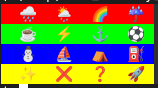
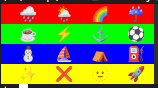
test(canary): mix a real Unicode-14 glyph into the vte_canary row grid (issue 57)
Per user request: instead of building a whole new real-app-in-tilix reel,
add 🫥 "dotted line face" (U+1FAE5) — the glyph identified from the user's
tilix screenshot as the likely culprit — directly into vte_canary's
existing sentinel-color row grid (row 4, alongside real color emoji),
reusing the already-proven -verify-rows machinery instead of inventing new
infra.

Result: both foot and tilix PASS -verify-rows with 🫥 in the mix — no
row-length defect reproduces in this headless capture. That's a real
negative result: the bug the user saw is not a universal raw-ANSI-sequence
width defect triggered by 🫥's bytes alone. Documented three untested
explanations (font/version-specific on the reporting machine, real-app
rendering context not exercised by the bare vte_canary tool, or a
misidentified glyph) and narrowed next steps accordingly. The canary
addition is kept as a permanent regression guard regardless.

Claude-Session: https://claude.ai/code/session_015EReJhvzEPtKL8oFMqRjmg

Changed region(s): [[0.5823, 0.75, 0.6835, 0.9318]]

diff --git a/scripts/vte_canary/main.go b/scripts/vte_canary/main.go
@@ -14,11 +14,18 @@ import (
 )
 
 // List of 4x4 test emojis containing standard emojis and BMP symbols.
+// Row 4 mixes color emoji with 🫥 "dotted line face" (U+1FAE5, Unicode 14.0,
+// 2021) — a real emoji-database entry (data/emoji.json) reported (issue 57,
+// 2026-08-09) to render pale/monochrome and mis-measure width in tilix,
+// producing a row shorter than the others. It's included directly in the
+// row-color sentinel grid (not the standalone synthetic set only) so
+// -verify-rows below can catch a real-glyph-triggered row-length mismatch,
+// not just the already-covered weather-symbol (U+1F324-1F329) class.
 var sampleEmojis = []string{
 	"🌧", "🌦", "🌈", "☔", // Row 1 (contains ☔ U+2614)
 	"☕", "⚡", "⚓", "⚽", // Row 2 (contains ☕ U+2615, ⚡ U+26A1, ⚓ U+2693, ⚽ U+26BD)
 	"⛄", "⛵", "⛺", "⛽", // Row 3 (contains ⛄ U+26C4, ⛵ U+26F5, ⛺ U+26FA, ⛽ U+26FD)
-	"✨", "❌", "❓", "🚀", // Row 4 (contains ✨ U+2728, ❌ U+274C, ❓ U+2753, 🚀 U+1F680)
+	"✨", "❌", "🫥", "🚀", // Row 4 (issue 57: 🫥 U+1FAE5 "dotted line face")
 }
 
 // canaryColors is the single source of truth for the row pattern colors:

diff --git a/issues/57-tilix-monochrome-mixed-row-length.md b/issues/57-tilix-monochrome-mixed-row-length.md
@@ -96,20 +96,87 @@ third:
      that's already proven correct.
    The second option is likely the pragmatic starting point.
 
+## Confirmed reproduction (2026-08-09)
+
+The default-view screenshot's grid ordering is influenced by MRU/recency and
+isn't a stable canary input on its own — but the glyph itself is:
+**🫥 "dotted line face" (U+1FAE5)**, `data/emoji.json` description "dotted
+line face" — a Unicode 14.0 (2021) emoji, one of the newest in the database,
+and *intentionally* rendered pale/faded by design (it's meant to look
+"invisible"), which is exactly why it stood out as "monochrome" in the
+screenshot. New-Unicode-version glyphs are a known gap for terminal width
+tables that haven't been updated (`docs/EmojiWidthResearch.md`'s
+correction-table findings) — consistent with this being a VTE/tilix
+per-codepoint width miscalculation rather than a rendering fluke.
+
+**Deterministic query**: typing `dotted` (confirmed via
+`go run ./scripts/screenshot zig-out/bin/emojig dotted`) reliably ranks 🫥
+as the #1 result, occupying the grid's first cell every time — this is the
+query the canary in "Proposed canary" step 3 should use, instead of relying
+on the (MRU-dependent) default view.
+
+## Canary added, but does NOT reproduce (2026-08-09)
+
+Added 🫥 directly into `scripts/vte_canary`'s row-color sentinel grid
+(`sampleEmojis` row 4, alongside ✨/❌/🚀 — real color emoji, mixed with the
+real glyph, per the user's request to combine regular + text-based glyphs
+under the existing sentinel-color/`-verify-rows` machinery rather than
+inventing new infra) and ran it through the already-proven
+`canary-foot.reel`/`canary-tilix.reel` pipeline (`make canary-shots`).
+
+**Result: both foot and tilix PASS `-verify-rows` — all 4 rows reach the
+same right edge, including the 🫥 row.** Visual inspection of
+`scripts/vte_canary/shots/canary-tilix.png` confirms 🫥 renders at the
+correct double-width cell with no length defect in this headless capture.
+
+This is a real negative result, not a shrug: it means the row-shortening
+the user saw is **not** a universal raw-ANSI-sequence width defect that
+reproduces from 🫥's bytes alone in *any* tilix. Plausible explanations,
+untested:
+- **Font/version-specific on the reporting machine** — the headless capture
+  environment's tilix version and installed emoji font may differ from the
+  user's desktop tilix, and 🫥 (Unicode 14.0, 2021) is new enough that font
+  coverage varies more than for older emoji.
+- **Real-app-specific rendering context** — the bare `vte_canary` tool
+  prints raw emoji with plain background padding, not the real app's cell
+  bracket/highlight box-drawing (`⌜…⌟`) or its own cursor/selection ANSI
+  sequences; the defect might only appear in that specific byte sequence,
+  which only `emojig --tui` itself emits. The "Proposed canary" section's
+  original real-app-in-tilix plan (steps 1-2, not yet done) would still be
+  needed to rule this in or out.
+- **Misidentified glyph** — 🫥 was the strongest visual candidate from the
+  screenshot but was not pixel-confirmed against the original report; it
+  could be a different codepoint in that row.
+
+The canary addition itself is kept regardless (`scripts/vte_canary/main.go`
+`sampleEmojis`) — it's now a permanent regression guard mixing a real,
+recent-Unicode monochrome-appearing glyph with color emoji in one sentinel
+row, which is worth having even though it didn't reproduce this specific
+report.
+
+**Next**: get the user's tilix version/font details, or a fresh screenshot
+with the `dotted` query typed (isolating 🫥 to the grid's first cell) taken
+on the *actual* reporting machine, to narrow down which of the three
+explanations above is correct before building the real-app-in-tilix reel.
+
 ## Next steps
 
-- [ ] Identify the exact codepoint under the cursor cell in the reported
-      screenshot (grep `data/emoji.json`) and confirm it's genuinely
-      rendered monochrome/width-1 by tilix's font fallback, not an
-      unrelated rendering artifact.
-- [ ] Find or construct a query whose result grid deterministically places
-      that glyph beside color emoji on the same row, for a stable canary.
-- [ ] Add a `canary-gui-tilix.reel` (or extend `scripts/vte_canary/`) that
-      runs the real `emojig --tui` inside headless tilix and captures
-      `I mode=app`.
-- [ ] Decide leak-detection vs. row-length-measurement verification (see
-      "Proposed canary" above) and implement whichever is simpler once the
-      reel exists and a first raw screenshot can be inspected.
+- [x] Identify the exact codepoint under the cursor cell — 🫥 U+1FAE5
+      "dotted line face" (see "Confirmed reproduction" above).
+- [x] Find a deterministic query — `dotted` (see "Confirmed reproduction").
+- [x] Added 🫥 to `scripts/vte_canary`'s sentinel-color row grid and ran it
+      through `make canary-shots` — **did not reproduce** on either foot or
+      tilix in headless capture (see "Canary added, but does NOT reproduce").
+      Kept as a permanent regression guard regardless.
+- [ ] Get the reporting machine's tilix version + font details, or a fresh
+      `dotted`-query screenshot taken there, to distinguish
+      font/version-specific vs. real-app-rendering-specific vs.
+      misidentified-glyph (see the three explanations above).
+- [ ] If font/version-specific or real-app-specific: build the originally
+      proposed `canary-gui-tilix.reel` running the real `emojig --tui`
+      inside headless tilix with the `dotted` query, per "Proposed canary"
+      steps 1-2 (not yet done — the canary added so far is the standalone
+      `vte_canary` tool, not the real app).
 - [ ] Once reproduced and proven via canary, decide the actual fix's home:
       issue [54](54-width-correction-beyond-vte.md)'s per-terminal
       detection table, issue [55](55-cursor-query-width-measurement.md)'s
